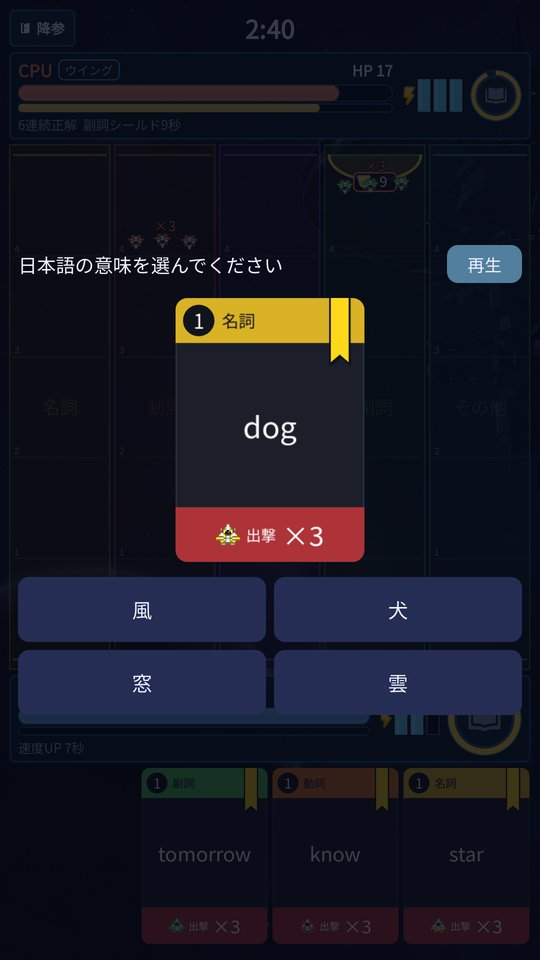
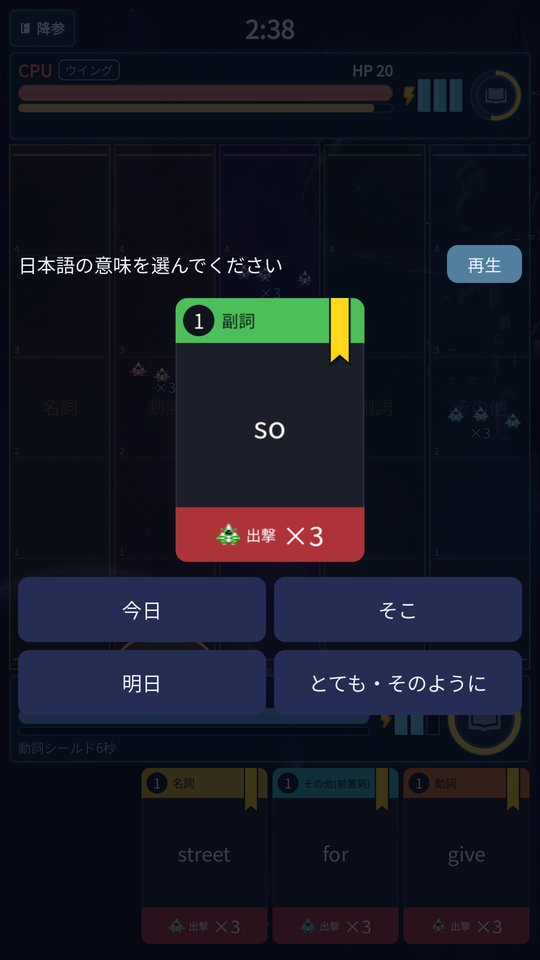
LexiconGalaxy: new modes, screenshots and privacy policy update
Describe the VS / 3 minutes Trial / Endless modes, the record screen,
the missed-word review and the in-app guide, and show six refreshed
screenshots. Update the privacy policy: Wi-Fi battle now sends the
pilot name and current rank to the opponent, and the on-device data
now includes per-mode records, word answer counts and the review list.

diff --git a/lexicongalaxy.html b/lexicongalaxy.html
@@ -161,28 +161,36 @@
 
   <img class="hero" src="assets/lexicongalaxy-title.jpg" alt="LexiconGalaxy タイトル画像" width="1024" height="500">
 
-  <p>英単語を覚えたら、宇宙で戦おう。英単語クイズに正解するとスターシップが出撃する、縦画面のリアルタイム英単語バトルゲームです。名詞・動詞・形容詞・副詞・その他（前置詞や接続詞など）の5本のレーンで、CPUの艦隊や、同じWi-Fiにつないだ友だちと陣地を奪い合います。</p>
+  <p>英単語を覚えたら、宇宙で戦おう。英単語クイズに正解するとスターシップが出撃する、縦画面のリアルタイム英単語バトルゲームです。名詞・動詞・形容詞・副詞・その他（前置詞や接続詞など）の5本のレーンで、CPUの艦隊や同じWi-Fiにつないだ友だちと陣地を奪い合ったり、ひとりでスコアに挑戦したりできます。</p>
+
+  <h2>遊べるモード</h2>
+  <ul class="features">
+    <li><strong>VS</strong> ― CPUと対戦（ノービス・ルーキー・ウイング・ベテラン・エースの5段階）、または同じWi-Fiにつないだ2台の端末で友だちとリアルタイム対戦。相手の陣地のHPを0にすればKO勝ち、3分経ったらHPの多い方の勝ちです</li>
+    <li><strong>3 minutes Trial</strong> ― 相手のいない3分間で、相手の陣地にどれだけシップを届けられるか（スコア）に挑戦</li>
+    <li><strong>Endless</strong> ― 相手も時間制限もなし。単語帳のように、自分のペースで解き続けてスコアを伸ばせます</li>
+  </ul>
 
   <h2>遊び方</h2>
-  <p>手札のカードを上にスワイプすると、画面の中央に英単語クイズが大きく現れます。4つの選択肢から正しい意味を選べば、カードのパワーと同じ数のスターシップが、カードの品詞のレーンへ飛び出していきます。同じレーンで相手とぶつかると、機数の多い方が生き残って進軍を続けます。相手の陣地のHPを0にすればKO勝ち。制限時間は3分です。</p>
+  <p>手札のカードを上にスワイプすると、画面の中央に英単語クイズが大きく現れます。4つの選択肢から正しい意味を選べば、カードのパワーと同じ数のスターシップが、カードの品詞のレーンへ飛び出していきます。同じレーンで相手とぶつかると、機数の多い方が生き残って進軍を続けます。メインメニューの「遊び方ガイド」では、実際の対戦画面が自動で動きながら、遊び方を順に説明します。</p>
 
   <ul class="features">
-    <li>英単語を見て日本語を選ぶ問題と、日本語を見て英単語を選ぶ問題が混ざって出題</li>
-    <li>出題された英単語を端末の音声で読み上げ。発音も一緒に覚えられます</li>
-    <li>相手がどの品詞の問題を解いているかは、シップが現れるまで分からない駆け引き</li>
-    <li>押されているレーンと、そこに出すべきカードが光って知らせてくれるので、品詞を意識した判断が自然と身につきます</li>
-    <li>連続正解でコンボゲージを溜めると、シールド・スピードアップ・パワーアップ・即時破壊・品詞封印から能力を1つ選んで発動</li>
+    <li>英単語を見て日本語を選ぶ問題と、日本語を見て英単語を選ぶ問題が混ざって出題。出題された英単語は端末の音声で読み上げます</li>
+    <li>デッキの単語は、これまでに解いた回数の少ない単語から選ばれるので、そのレベルの単語がまんべんなく出題されます</li>
+    <li>連続正解でコンボゲージを溜めると、イラスト入りのコンボカードから能力を1つ選んで発動</li>
     <li>デッキの単語の半分以上に正解すると「レキシコンの力」が使え、デッキの単語が一新されてカードもパワーアップ</li>
+    <li>押されているレーンと、そこに出すべきカードが光って知らせてくれるので、品詞を意識した判断が自然と身につきます</li>
     <li>小学校レベルから大学受験対策まで、7段階の英単語レベル</li>
-    <li>対戦相手のCPUは ノービス・ルーキー・ウイング・ベテラン・エース の5段階</li>
-    <li>同じWi-Fiにつないだ2台の端末で、友だちとリアルタイム対戦（Wi-Fi対戦）</li>
-    <li>正解率と解答スピードから、あなたのランク（ノービス〜エース）が決まります</li>
+    <li>「戦績」では、VS（CPU・Wi-Fi）の勝敗、3分トライアルとエンドレスのベストスコア、正解率と解答スピードで決まるあなたのランクを確認できます</li>
+    <li>間違えた単語は一覧で見直せます。発音を聞いて、覚えたらチェックを付けて一覧から外していきましょう</li>
   </ul>
 
   <div class="shots">
-    <figure><img src="assets/lexicongalaxy-shot1.jpg" alt="対戦画面" width="540" height="960"><figcaption>対戦画面</figcaption></figure>
+    <figure><img src="assets/lexicongalaxy-shot1.jpg" alt="VSの対戦画面" width="540" height="960"><figcaption>VS（CPU対戦）</figcaption></figure>
     <figure><img src="assets/lexicongalaxy-shot2.jpg" alt="英単語クイズ" width="540" height="960"><figcaption>英単語クイズ</figcaption></figure>
     <figure><img src="assets/lexicongalaxy-shot3.jpg" alt="コンボ能力の選択" width="540" height="960"><figcaption>コンボ能力</figcaption></figure>
+    <figure><img src="assets/lexicongalaxy-shot4.jpg" alt="3分トライアル" width="540" height="960"><figcaption>3 minutes Trial</figcaption></figure>
+    <figure><img src="assets/lexicongalaxy-shot5.jpg" alt="戦績画面" width="540" height="960"><figcaption>戦績</figcaption></figure>
+    <figure><img src="assets/lexicongalaxy-shot6.jpg" alt="間違えた単語の見直し" width="540" height="960"><figcaption>間違えた単語の見直し</figcaption></figure>
   </div>
 
   <div class="status">現在 Google Play での公開に向けて準備を進めています。公開まで今しばらくお待ちください。</div>

diff --git a/lexicongalaxy-privacy.html b/lexicongalaxy-privacy.html
@@ -134,7 +134,7 @@
   </div>
 
   <h1>プライバシーポリシー</h1>
-  <p class="meta"><span>制定日：2026年11月17日／改定日：2026年11月18日（Wi-Fi対戦・プレイヤー名について追記）</span><span>対象アプリ：レキシコンギャラクシー（LexiconGalaxy・パッケージ名 com.lexicongalaxy.app）</span></p>
+  <p class="meta"><span>制定日：2026年11月17日／改定日：2026年11月19日（Wi-Fi対戦でやり取りする情報と、端末に保存するデータを更新）</span><span>対象アプリ：レキシコンギャラクシー（LexiconGalaxy・パッケージ名 com.lexicongalaxy.app）</span></p>
   <hr class="rule">
 
   <p class="lede">
@@ -159,12 +159,14 @@
 
   <section>
     <h2><span class="num">第2条</span>端末内に保存されるデータ</h2>
-    <p>本アプリのプレイ体験のため、以下の情報のみを端末内（アプリのローカルストレージ）に保存します。これらのデータが端末の外に送信されることはありません。</p>
+    <p>本アプリのプレイ体験のため、以下の情報のみを端末内（アプリのローカルストレージ）に保存します。Wi-Fi対戦の相手に送るプレイヤー名とランク（第4条）を除き、これらのデータが端末の外に送信されることはありません。</p>
     <ul>
       <li>プレイヤー名（ニューゲームの開始時に入力する名前。ニックネームでかまいません）</li>
-      <li>対戦の戦績（勝ち・負け・引き分けの回数）</li>
+      <li>VS（CPU対戦・Wi-Fi対戦）の戦績（勝ち・負け・引き分けの回数、最後に戦ったCPUの強さ、Wi-Fi対戦の直近3戦の勝敗・相手のプレイヤー名とランク・対戦日時）</li>
+      <li>3分トライアル・エンドレスのベストスコア・平均スコア・プレイ回数</li>
       <li>ランクを決めるための直近の解答の記録（正解・不正解と、解答にかかった時間）</li>
-      <li>間違えた英単語の記録（学習履歴）</li>
+      <li>英単語ごとの出題・解答回数（出題する単語をまんべんなく選ぶため）</li>
+      <li>間違えた英単語の記録と、見直しの一覧（学習履歴）</li>
       <li>選択中の英語レベル・対戦相手（CPU）の強さ</li>
       <li>ゲーム内の設定（音量、英単語の読み上げのオン・オフなど）</li>
     </ul>
@@ -189,10 +191,12 @@
     <p>やり取りする情報は、対戦に必要な次のものだけです。</p>
     <ul>
       <li>部屋を探すための合図（部屋番号とアプリのバージョン。部屋番号は端末のローカルネットワーク上のアドレスから作ります）</li>
+      <li>プレイヤー名と、その時点のランク（お互いの戦績画面の「直近の対戦」に表示するため）</li>
       <li>対戦の進行に必要なデータ（出したカード・レーン、コンボやレキシコンの力の状態、対戦で流す曲など）</li>
     </ul>
     <p>
-      プレイヤー名・戦績・学習の記録は相手の端末に送信しません（相手の画面では「あいて」と表示されます）。
+      戦績の数字や学習の記録（間違えた単語など）は相手の端末に送信しません。受け取った相手のプレイヤー名とランクは、あなたの端末の戦績にだけ保存されます。
+      プレイヤー名には本名ではなく、ニックネームを使うことをおすすめします。
       Wi-Fi対戦を利用しない場合、この通信は行われません。
     </p>
   </section>
@@ -228,7 +232,7 @@
       本アプリは、13歳未満のお子様を含む幅広い年齢の方の英語学習を対象としています。
       本アプリはお子様を含むすべての利用者に、氏名・メールアドレスなどの個人情報の入力を求めることはありません。
       また、アカウント登録・利用者同士がメッセージをやり取りする機能（チャットなど）・アプリ内課金の機能はありません。
-      Wi-Fi対戦は同じWi-Fiにつないだ相手とゲームの対戦だけを行うもので、名前やメッセージは送信されません（第4条）。
+      Wi-Fi対戦は同じWi-Fiにつないだ相手とゲームの対戦だけを行うもので、やり取りするのはゲームに必要な情報とプレイヤー名・ランクだけです。メッセージを送り合う機能はありません（第4条）。
     </p>
     <p>
       広告は、Google Play の「ファミリー向けプログラム」の要件を満たす広告配信サービス（Google AdMob）を、第5条の子ども向けの設定で表示しています。
@@ -258,7 +262,7 @@
 
   <footer>
     <span>© 2026 LexiconGalaxy</span>
-    <span>Last updated: 2026-11-18</span>
+    <span>Last updated: 2026-11-19</span>
   </footer>
 </div>
 </body>
